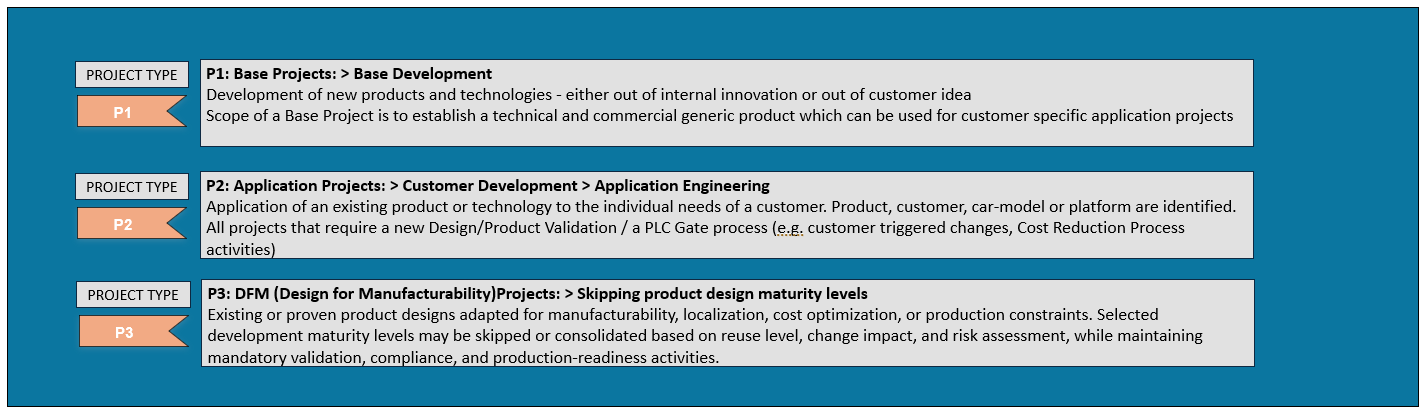
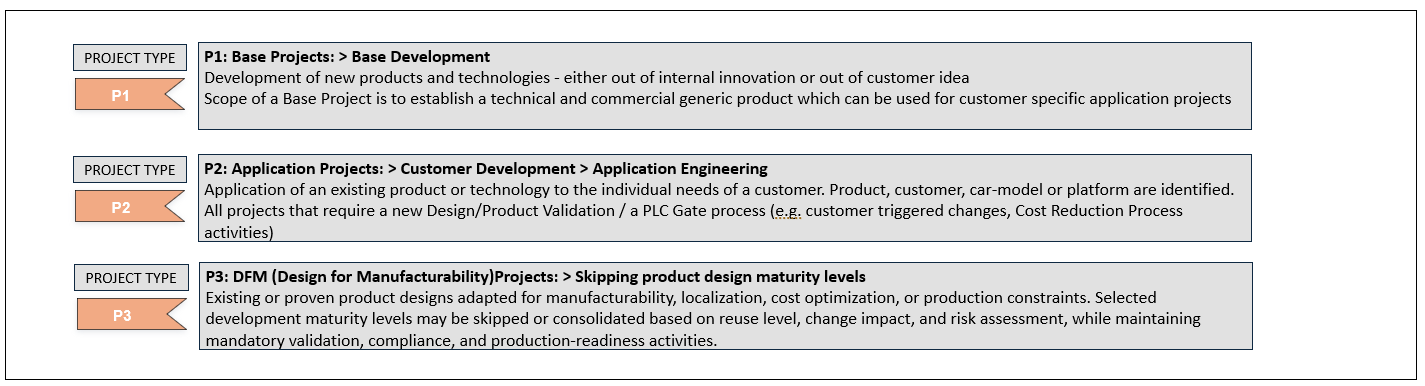
Replace project type descriptions with updated image

diff --git a/script.js b/script.js
@@ -647,7 +647,7 @@ function renderPhasesAndMilestonesPage() {
       ${window.MaturityMap.renderRail()}
       <section class="project-type-descriptions" aria-label="Project type descriptions">
         <a href="assets/project-type-descriptions.png" target="_blank" rel="noopener" aria-label="Open P1, P2, and P3 project descriptions at full size">
-          <img src="assets/project-type-descriptions.png" width="1426" height="412" alt="P1: Base Projects — Base Development. Develop new products and technologies from internal innovation or customer ideas, establishing a generic product for customer-specific applications. P2: Application Projects — Customer Development — Application Engineering. Adapt existing products or technology to identified customer, vehicle, or platform needs requiring design or product validation and a PLC gate process. P3: DFM (Design for Manufacturability) Projects. Adapt proven designs for manufacturability, localization, cost optimization, or production constraints. Selected design maturities may be skipped or consolidated based on reuse, change impact, and risk assessment, while maintaining mandatory validation, compliance, and production-readiness activities." />
+          <img src="assets/project-type-descriptions.png" width="1425" height="386" alt="P1: Base Projects — Base Development. Develop new products and technologies from internal innovation or customer ideas, establishing a generic product for customer-specific applications. P2: Application Projects — Customer Development — Application Engineering. Adapt existing products or technology to identified customer, vehicle, or platform needs requiring design or product validation and a PLC gate process. P3: DFM (Design for Manufacturability) Projects. Adapt proven designs for manufacturability, localization, cost optimization, or production constraints. Selected design maturities may be skipped or consolidated based on reuse, change impact, and risk assessment, while maintaining mandatory validation, compliance, and production-readiness activities." />
         </a>
       </section>
     </div>
